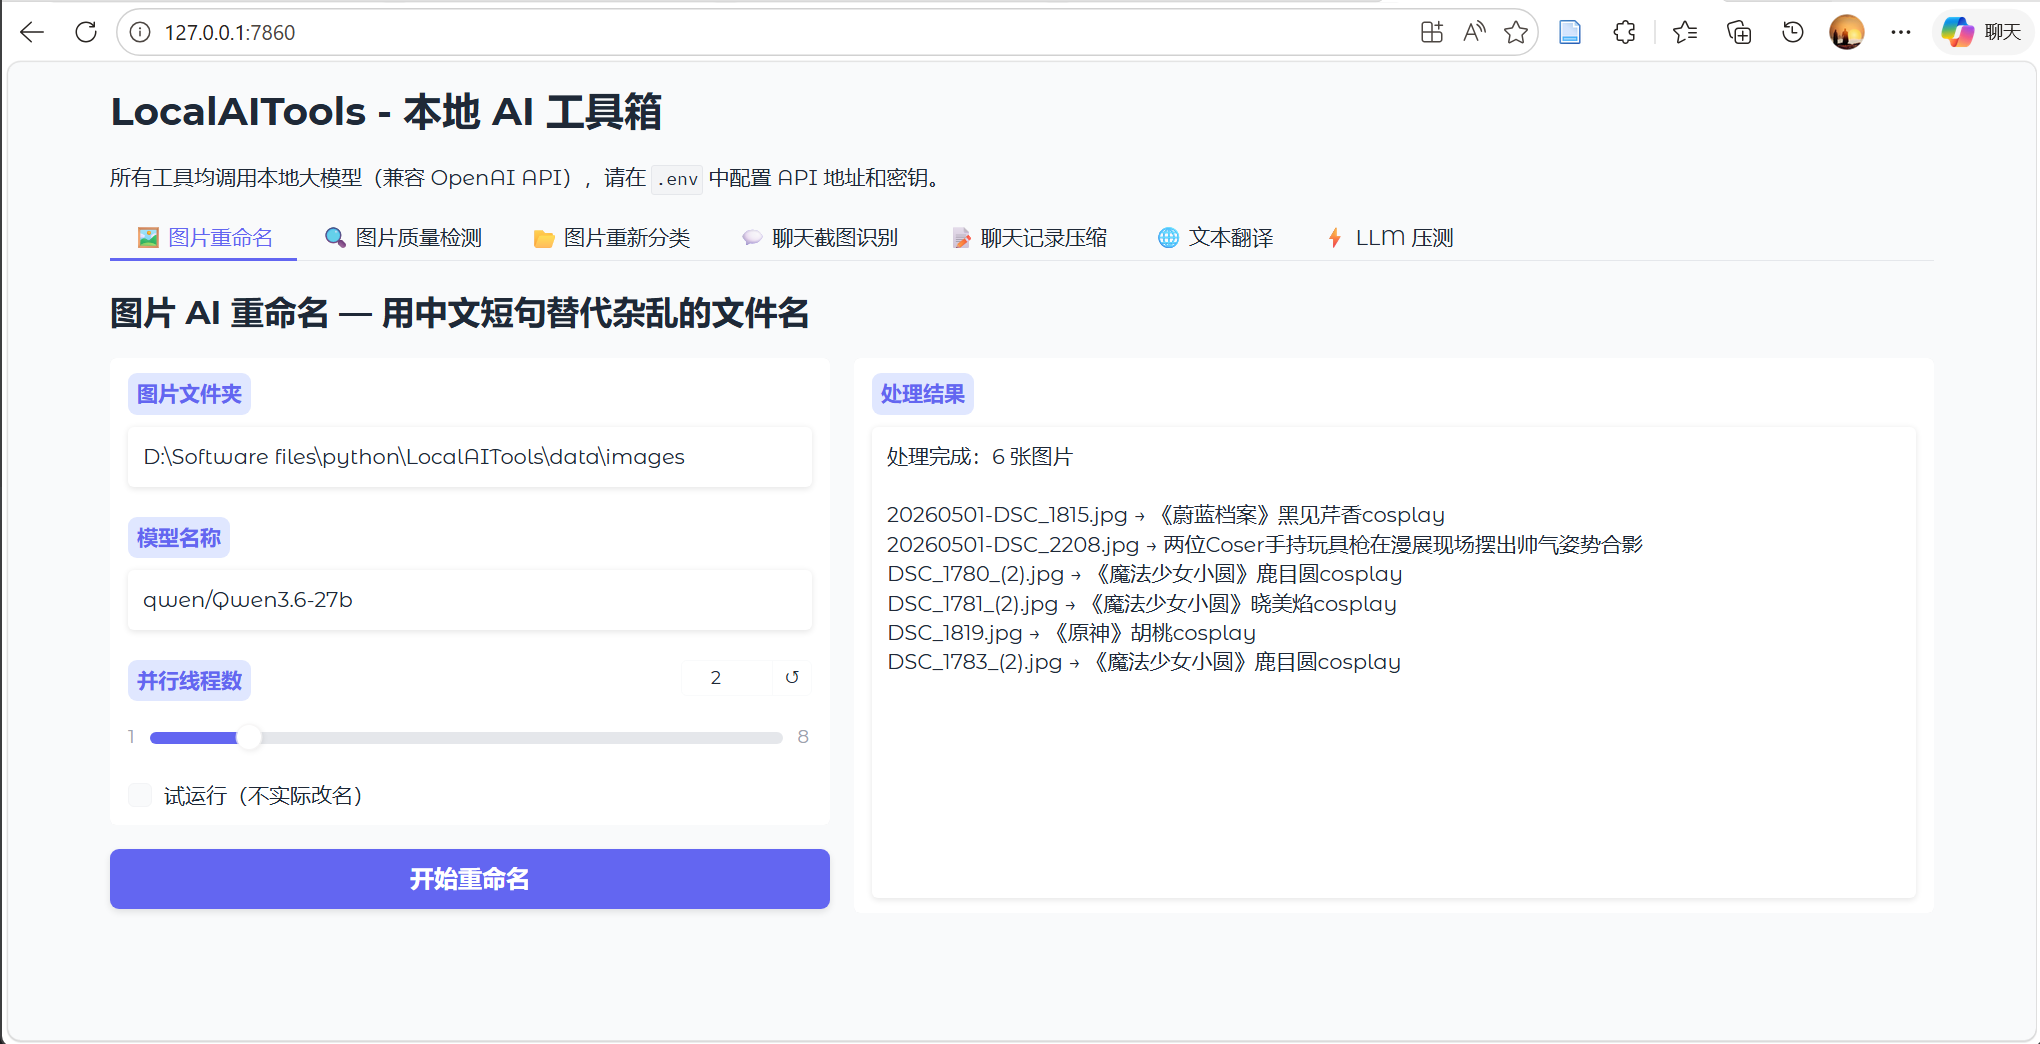
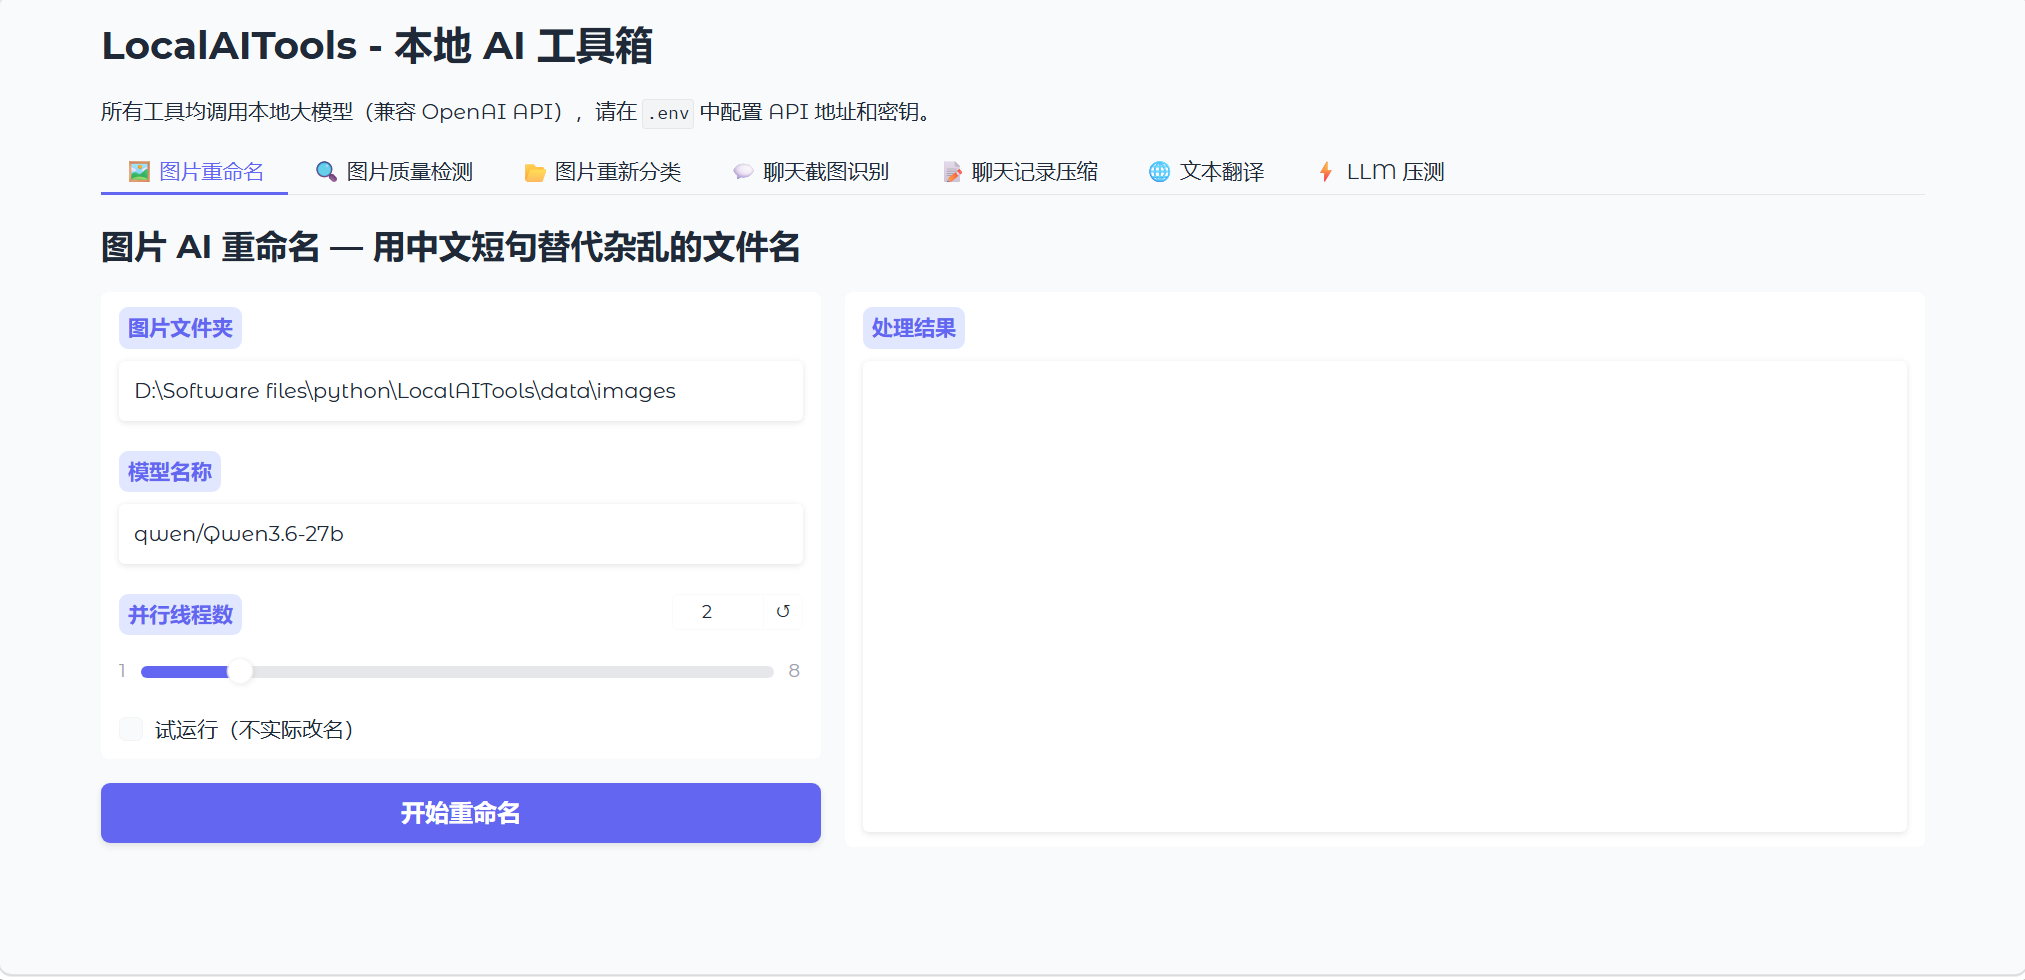
V1.1 app.py — 加了 inbrowser=True，启动后自动打开浏览器，不用手动点链接 data/ 和 outputs/ — 加入 .gitignore，测试文件不会误上传 README.md — 保留你的截图，补充了自动打开浏览器的说明

diff --git a/app.py b/app.py
@@ -342,4 +342,4 @@ def build_ui():
 
 if __name__ == "__main__":
     ui = build_ui()
-    ui.launch(server_name="127.0.0.1", server_port=7860, share=False)
+    ui.launch(server_name="127.0.0.1", server_port=7860, share=False, inbrowser=True)

diff --git a/README.md b/README.md
@@ -2,8 +2,7 @@
 
 一套调用本地大模型（兼容 OpenAI API）的实用工具集合，涵盖图片处理、文本处理、性能测试。支持 **LM Studio / Ollama / vLLM / 云端 API**。
 
-- **图形界面**：一行命令启动 Web UI，无需敲代码
-- ![img.png](img.png)
+- **图形界面**：一行命令启动 Web UI，自动打开浏览器，无需敲代码
 - **命令行**：每个工具也可独立运行，方便脚本集成
 - **统一配置**：所有工具的 API 地址、模型名称、参数集中在 `.env` 文件中管理
 
@@ -54,8 +53,10 @@ cp .env.example .env
 
 ```bash
 python app.py
-# 浏览器打开 http://localhost:7860
+# 自动打开浏览器 → http://localhost:7860
 ```
+
+![界面截图](img.png)
 
 ### 5. 命令行用法（示例）
 